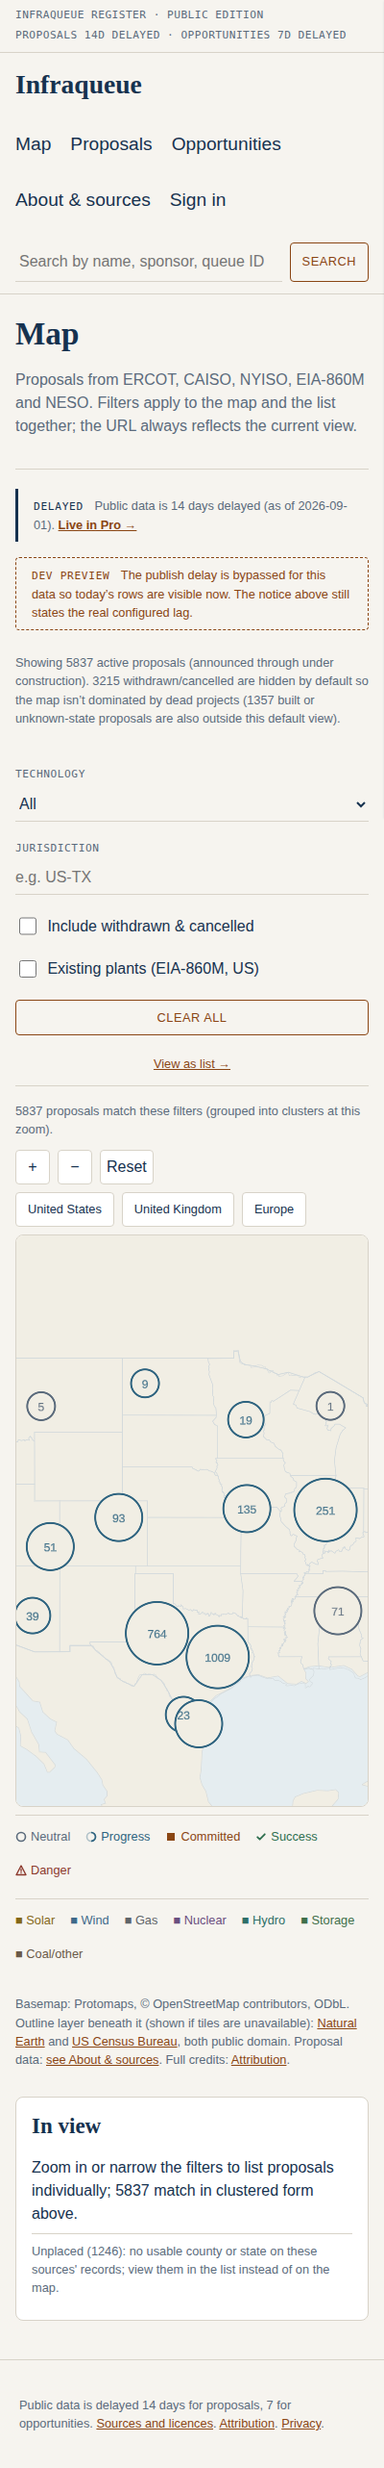
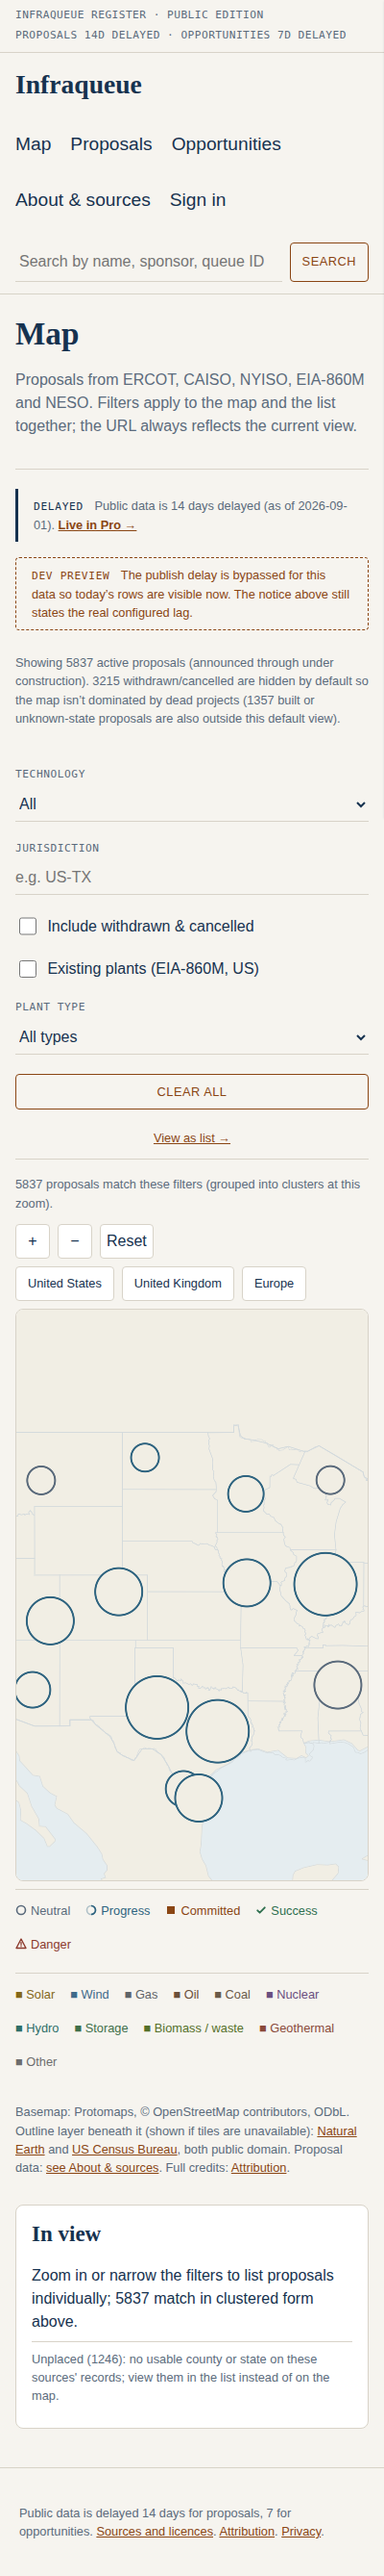
Web: plant type filter, eleven-family palette, plant labels from zoom 9
The first plant palette mapped only bare class names, so every gas_*
plant and all biomass, waste, oil and geothermal plants drew in the
"Coal/other" colour. Families now cover the API vocabulary exactly
(guarded by a test), biomass/waste has its own colour, a Plant type
select filters the layer independently of the proposals technology
filter, and a three-letter family code labels each square from zoom 9.
Measured live: the biomass filter returns 582 plants.

Claude-Session: https://claude.ai/code/session_01PPjuiE4bWTjrWutamTwtXn

diff --git a/web/static/js/map.js b/web/static/js/map.js
@@ -24,16 +24,45 @@
   // mapped down to the seven token families the legend and marker fill use. Anything not listed
   // here falls back to "coal" (labelled "Coal/other" in the legend) rather than inventing an
   // eighth colour for every raw EIA fuel code.
-  var PLANT_TECH_FAMILY = {
-    solar: "solar", wind: "wind", gas: "gas", natural_gas: "gas",
-    nuclear: "nuclear", hydro: "hydro", hydroelectric: "hydro",
-    storage: "storage", battery: "storage", batteries: "storage",
-    coal: "coal", other: "coal"
+  // Plant technology families. The API classifies plants with pipeline.normalize.classify_tech's
+  // finer vocabulary (gas_cc, gas_ct, wind_offshore, pumped_storage, waste ...); the map draws
+  // eleven families so the legend stays readable and every class lands in a named colour rather
+  // than a catch-all (owner, 2026-09-15: biomass/waste must be toggleable and labelled).
+  var PLANT_FAMILY_ORDER = [
+    "solar", "wind", "gas", "oil", "coal", "nuclear", "hydro", "storage", "biomass", "geothermal", "other"
+  ];
+  // family -> classify_tech classes (services/api/context_routes.py TECHNOLOGY_VOCAB); the plant
+  // type filter sends these classes, so an unknown one would be a 400 from the API -- guarded by
+  // web/test_map_layers.py::test_plant_family_classes_are_all_in_the_api_vocabulary.
+  var PLANT_FAMILY_CLASSES = {
+    solar: ["solar", "solar_storage", "solar_thermal"],
+    wind: ["wind", "wind_offshore", "wind_storage"],
+    gas: ["gas_cc", "gas_ct", "gas_steam", "gas_ice", "gas_other", "fuel_cell", "hydrogen"],
+    oil: ["oil"],
+    coal: ["coal"],
+    nuclear: ["nuclear"],
+    hydro: ["hydro"],
+    storage: ["storage", "pumped_storage"],
+    biomass: ["biomass", "waste"],
+    geothermal: ["geothermal"],
+    other: ["other", "unknown", "load", "transmission"]
   };
-  var PLANT_TECH_TOKEN = {
-    solar: "--plant-solar", wind: "--plant-wind", gas: "--plant-gas",
-    nuclear: "--plant-nuclear", hydro: "--plant-hydro", storage: "--plant-storage",
-    coal: "--plant-coal"
+  var PLANT_TECH_FAMILY = {};
+  PLANT_FAMILY_ORDER.forEach(function (family) {
+    PLANT_FAMILY_CLASSES[family].forEach(function (cls) { PLANT_TECH_FAMILY[cls] = family; });
+  });
+  // Legacy/loose spellings some proposal rows carry; harmless for plants.
+  PLANT_TECH_FAMILY.gas = "gas"; PLANT_TECH_FAMILY.natural_gas = "gas";
+  PLANT_TECH_FAMILY.hydroelectric = "hydro"; PLANT_TECH_FAMILY.battery = "storage"; PLANT_TECH_FAMILY.batteries = "storage";
+  var PLANT_TECH_TOKEN = {};
+  PLANT_FAMILY_ORDER.forEach(function (family) { PLANT_TECH_TOKEN[family] = "--plant-" + family; });
+  var PLANT_FAMILY_LABEL = {
+    solar: "SOL", wind: "WND", gas: "GAS", oil: "OIL", coal: "COL", nuclear: "NUC",
+    hydro: "HYD", storage: "BES", biomass: "BIO", geothermal: "GEO", other: "OTH"
+  };
+  var PLANT_FAMILY_NAME = {
+    solar: "Solar", wind: "Wind", gas: "Gas", oil: "Oil", coal: "Coal", nuclear: "Nuclear",
+    hydro: "Hydro", storage: "Storage", biomass: "Biomass / waste", geothermal: "Geothermal", other: "Other"
   };
   var IN_VIEW_LIMIT = 500;
   var WORLD_BBOX = [-179, -85, 179, 85];
@@ -67,8 +96,8 @@
   function familyOf(state) { return LIFECYCLE_FAMILY[state] || "neutral"; }
 
   function plantFamilyOf(tech) {
-    if (!tech) return "coal";
-    return PLANT_TECH_FAMILY[String(tech).toLowerCase()] || "coal";
+    if (!tech) return "other";
+    return PLANT_TECH_FAMILY[String(tech).toLowerCase()] || "other";
   }
 
   function techLabel(tech) {
@@ -118,7 +147,8 @@
       jurisdiction: params.get("jurisdiction") || "",
       include_withdrawn: params.get("include_withdrawn") === "1",
       layers: layersParam ? layersParam.split(",").filter(Boolean) : [],
-      region: params.get("region") || ""
+      region: params.get("region") || "",
+      plant_technology: PLANT_FAMILY_CLASSES[params.get("plant_technology") || ""] ? params.get("plant_technology") : ""
     };
   }
 
@@ -129,6 +159,7 @@
     if (filters.include_withdrawn) params.set("include_withdrawn", "1");
     if (filters.layers && filters.layers.length) params.set("layers", filters.layers.join(","));
     if (filters.region) params.set("region", filters.region);
+    if (filters.plant_technology) params.set("plant_technology", filters.plant_technology);
     var qs = params.toString();
     var url = window.location.pathname + (qs ? "?" + qs : "");
     window.history.replaceState(null, "", url);
@@ -160,7 +191,11 @@
     var params = new URLSearchParams();
     params.set("bbox", bbox.join(","));
     params.set("zoom", String(zoom));
-    if (filters.technology) params.set("technology", filters.technology);
+    // The plant-type filter is its own control (`plant_technology`, a family), sent to the API as
+    // that family's classify_tech classes; the proposals technology filter does not apply here.
+    if (filters.plant_technology && PLANT_FAMILY_CLASSES[filters.plant_technology]) {
+      params.set("technology", PLANT_FAMILY_CLASSES[filters.plant_technology].join(","));
+    }
     return "/api/context/plants/geo?" + params.toString();
   }
 
@@ -182,6 +217,10 @@
   document.getElementById("mf-include-withdrawn").checked = filters.include_withdrawn;
   var plantsToggle = document.getElementById("mf-layer-plants");
   plantsToggle.checked = filters.layers.indexOf("plants") !== -1;
+  var plantTypeSelect = document.getElementById("mf-plant-technology");
+  var plantTypeField = document.getElementById("mf-plant-technology-field");
+  plantTypeSelect.value = filters.plant_technology;
+  plantTypeField.hidden = !plantsToggle.checked;
   writeFilters(filters);
 
   var colors = familyColors();
@@ -312,6 +351,7 @@
             f.properties.plant_family = plantFamilyOf(f.properties.dominant_technology);
           } else {
             f.properties.plant_family = plantFamilyOf(f.properties.technology);
+            f.properties.plant_label = PLANT_FAMILY_LABEL[f.properties.plant_family];
           }
         });
         latestPlantsTotal = (fc.totals || {}).records || 0;
@@ -473,12 +513,9 @@
     map.addImage("plant-square", buildSquareIcon(8), { sdf: true });
     map.addSource("plants", { type: "geojson", data: { type: "FeatureCollection", features: [] } });
 
-    var plantColorExpr = [
-      "match", ["get", "plant_family"],
-      "solar", plantColors.solar, "wind", plantColors.wind, "gas", plantColors.gas,
-      "nuclear", plantColors.nuclear, "hydro", plantColors.hydro, "storage", plantColors.storage,
-      "coal", plantColors.coal, plantColors.coal
-    ];
+    var plantColorExpr = ["match", ["get", "plant_family"]];
+    PLANT_FAMILY_ORDER.forEach(function (family) { plantColorExpr.push(family, plantColors[family]); });
+    plantColorExpr.push(plantColors.other);
 
     // Beneath the proposals layers (`addLayer(..., "clusters")`, task item 2): inserted right
     // above the basemap and below every proposals layer added further down.
@@ -512,13 +549,25 @@
       paint: { "icon-color": plantColorExpr, "icon-opacity": 0.6 }
     }, "clusters");
 
+    // Labels appear once the squares are far enough apart to read (zoom 9+): the family code
+    // beneath the square, same three-letter convention as the proposal markers' tech codes.
+    map.addLayer({
+      id: "plant-labels", type: "symbol", source: "plants", minzoom: 9,
+      filter: ["==", ["get", "feature_kind"], "plant"],
+      layout: {
+        "text-field": ["get", "plant_label"], "text-size": 8, "text-font": ["Noto Sans Medium"],
+        "text-anchor": "top", "text-offset": [0, 0.6], "text-allow-overlap": false
+      },
+      paint: { "text-color": plantColorExpr, "text-opacity": 0.85 }
+    }, "clusters");
+
     map.on("click", "plant-points", function (e) { openPlantDrawer(e.features[0].properties); });
     map.on("mouseenter", "plant-points", function () { map.getCanvas().style.cursor = "pointer"; });
     map.on("mouseleave", "plant-points", function () { map.getCanvas().style.cursor = ""; });
   }
 
   function setPlantsLayerVisible(on) {
-    ["plant-clusters", "plant-cluster-count", "plant-points"].forEach(function (id) {
+    ["plant-clusters", "plant-cluster-count", "plant-points", "plant-labels"].forEach(function (id) {
       if (map.getLayer(id)) map.setLayoutProperty(id, "visibility", on ? "visible" : "none");
     });
     plantsLegend.hidden = !on;
@@ -616,17 +665,20 @@
       jurisdiction: document.getElementById("mf-jurisdiction").value,
       include_withdrawn: document.getElementById("mf-include-withdrawn").checked,
       layers: filters.layers,
-      region: filters.region
+      region: filters.region,
+      plant_technology: plantTypeSelect.value
     };
     writeFilters(filters);
     refetch();
   }
+  plantTypeSelect.addEventListener("change", applyFilters);
   document.getElementById("mf-technology").addEventListener("change", applyFilters);
   document.getElementById("mf-jurisdiction").addEventListener("change", applyFilters);
   document.getElementById("mf-include-withdrawn").addEventListener("change", applyFilters);
   plantsToggle.addEventListener("change", function () {
     var on = plantsToggle.checked;
     filters.layers = on ? ["plants"] : [];
+    plantTypeField.hidden = !on;
     writeFilters(filters);
     setPlantsLayerVisible(on);
     sendUiEvent("map.layer_toggled", { layer: "plants", on: on });
@@ -637,6 +689,7 @@
     document.getElementById("mf-technology").value = "";
     document.getElementById("mf-jurisdiction").value = "";
     document.getElementById("mf-include-withdrawn").checked = false;
+    plantTypeSelect.value = "";
     applyFilters();
   });
 
@@ -711,7 +764,7 @@
       var source = propObj(p.source);
       body.innerHTML =
         "<h2>" + p.name + "</h2>" +
-        "<p class=\"reuse-badge\">Existing plant &middot; context layer</p>" +
+        "<p class=\"reuse-badge\">Existing plant &middot; " + (PLANT_FAMILY_NAME[plantFamilyOf(p.technology)] || "Other") + "</p>" +
         "<dl class=\"drawer-fields\">" +
         "<div class=\"drawer-fields__row\"><dt>Operator</dt><dd>" + (p.operator_name || "—") + "</dd></div>" +
         (techRows || "<div class=\"drawer-fields__row\"><dt>Technology</dt><dd>" + (p.technology || "—") + "</dd></div>") +

diff --git a/web/templates/home_map.html b/web/templates/home_map.html
@@ -36,6 +36,23 @@
       Existing plants (EIA-860M, US)
     </label>
   </div>
+  <div class="filter-field" id="mf-plant-technology-field" hidden>
+    <label for="mf-plant-technology">Plant type</label>
+    <select id="mf-plant-technology" name="plant_technology">
+      <option value="">All types</option>
+      <option value="solar">Solar</option>
+      <option value="wind">Wind</option>
+      <option value="gas">Gas</option>
+      <option value="oil">Oil</option>
+      <option value="coal">Coal</option>
+      <option value="nuclear">Nuclear</option>
+      <option value="hydro">Hydro</option>
+      <option value="storage">Storage</option>
+      <option value="biomass">Biomass / waste</option>
+      <option value="geothermal">Geothermal</option>
+      <option value="other">Other</option>
+    </select>
+  </div>
   <button class="filter-bar__submit" type="button" id="mf-clear">Clear all</button>
   <a class="filter-bar__clear" href="/proposals" id="mf-view-list">View as list &rarr;</a>
 </form>
@@ -68,10 +85,14 @@
       <span class="legend__item" style="color:var(--plant-solar)">&#9632; Solar</span>
       <span class="legend__item" style="color:var(--plant-wind)">&#9632; Wind</span>
       <span class="legend__item" style="color:var(--plant-gas)">&#9632; Gas</span>
+      <span class="legend__item" style="color:var(--plant-oil)">&#9632; Oil</span>
+      <span class="legend__item" style="color:var(--plant-coal)">&#9632; Coal</span>
       <span class="legend__item" style="color:var(--plant-nuclear)">&#9632; Nuclear</span>
       <span class="legend__item" style="color:var(--plant-hydro)">&#9632; Hydro</span>
       <span class="legend__item" style="color:var(--plant-storage)">&#9632; Storage</span>
-      <span class="legend__item" style="color:var(--plant-coal)">&#9632; Coal/other</span>
+      <span class="legend__item" style="color:var(--plant-biomass)">&#9632; Biomass / waste</span>
+      <span class="legend__item" style="color:var(--plant-geothermal)">&#9632; Geothermal</span>
+      <span class="legend__item" style="color:var(--plant-other)">&#9632; Other</span>
     </div>
     <p class="map-attribution">{{ basemap_attribution }} Outline layer beneath it (shown if tiles are unavailable): <a href="https://www.naturalearthdata.com/about/terms-of-use/" rel="noopener">Natural Earth</a> and <a href="https://www.census.gov/programs-surveys/geography.html" rel="noopener">US Census Bureau</a>, both public domain. Proposal data: <a href="/about#sources">see About &amp; sources</a>. Full credits: <a href="/attribution">Attribution</a>.</p>
   </div>

diff --git a/web/static/css/styles.css b/web/static/css/styles.css
@@ -61,6 +61,12 @@
   --plant-hydro: #2f6f68;
   --plant-storage: #3f6f4a;
   --plant-coal: #6a5a48;
+  /* Added 2026-09-15 with the plant-type filter (owner: biomass/waste must be distinct). Same
+     method: oil 6.81:1, biomass 5.11:1, geothermal 6.12:1, other 4.71:1 against --color-paper. */
+  --plant-oil: #6b4f3a;
+  --plant-biomass: #55702a;
+  --plant-geothermal: #8a4a3a;
+  --plant-other: #6d6d6d;
 
   /* 1.3 typography */
   --font-display: "Newsreader", Georgia, "Times New Roman", serif;
@@ -133,6 +139,10 @@
     --plant-hydro: #7cb8b0;
     --plant-storage: #86b98f;
     --plant-coal: #ac9c88;
+    --plant-oil: #c9a98a;
+    --plant-biomass: #a9c77a;
+    --plant-geothermal: #d29a86;
+    --plant-other: #b5b5b5;
   }
 }
 :root[data-theme="dark"] {
@@ -165,6 +175,10 @@
   --plant-hydro: #7cb8b0;
   --plant-storage: #86b98f;
   --plant-coal: #ac9c88;
+  --plant-oil: #c9a98a;
+  --plant-biomass: #a9c77a;
+  --plant-geothermal: #d29a86;
+  --plant-other: #b5b5b5;
 }
 
 /* ---------- 2. Reset ---------- */

diff --git a/web/test_map_layers.py b/web/test_map_layers.py
@@ -377,3 +377,35 @@ def test_footer_links_to_attribution(web_client: TestClient) -> None:
     resp = web_client.get("/about")
     assert resp.status_code == 200
     assert 'href="/attribution"' in resp.text
+
+
+# ============================================================ plant type filter (2026-09-15)
+def test_plant_family_classes_are_all_in_the_api_vocabulary() -> None:
+    """`map.js` sends a family's classify_tech classes as the plants `technology` filter; a class
+    the API does not know is a 400, so every class named in the script must be in the vocabulary
+    and every vocabulary class must land in some family (nothing silently falls to a catch-all)."""
+    import json
+    import re
+    from pathlib import Path
+
+    from services.api.context_routes import TECHNOLOGY_VOCAB
+
+    source = (Path(__file__).parent / "static" / "js" / "map.js").read_text()
+    block = re.search(r"var PLANT_FAMILY_CLASSES = \{(.*?)\n  \};", source, re.S)
+    assert block is not None
+    classes: set[str] = set()
+    for family, arr in re.findall(r"(\w+): (\[[^\]]*\])", block.group(1)):
+        values = json.loads(arr)
+        assert values, family
+        classes.update(values)
+    assert classes <= set(TECHNOLOGY_VOCAB), classes - set(TECHNOLOGY_VOCAB)
+    assert set(TECHNOLOGY_VOCAB) <= classes, set(TECHNOLOGY_VOCAB) - classes
+
+
+def test_home_map_has_plant_type_filter_and_eleven_family_legend(web_client: TestClient) -> None:
+    resp = web_client.get("/?layers=plants")
+    assert resp.status_code == 200
+    assert 'id="mf-plant-technology"' in resp.text
+    assert '<option value="biomass">Biomass / waste</option>' in resp.text
+    for token in ("--plant-oil", "--plant-biomass", "--plant-geothermal", "--plant-other"):
+        assert token in resp.text, token

diff --git a/web/test_e2e.py b/web/test_e2e.py
@@ -499,8 +499,10 @@ def test_pmtiles_basemap_renders_real_labels_end_to_end(pmtiles_proof_server: ob
             assert page.get_attribute("#map", "data-tile-mode") == "pmtiles"
             page.wait_for_selector("#map canvas", timeout=10000)
             page.wait_for_function("() => window.__map && window.__map.isStyleLoaded()", timeout=15000)
-            # (a) MapLibre `load` fired
-            assert page.evaluate("() => window.__map.loaded()")
+            # (a) MapLibre `load` fired and the first render settled -- polled rather than read at
+            # one instant, since `loaded()` is false whenever any tile or glyph is still in flight
+            # (it flickered false under CPU load from a parallel data reload, 2026-09-15).
+            page.wait_for_function("() => window.__map.loaded()", timeout=30000)
 
             # Zoom to the extracted archive's own coverage (Austin, TX, up to zoom 10) -- the
             # world-view default the page loads at is below the archive's data.

diff --git a/docs/CHANGELOG.md b/docs/CHANGELOG.md
@@ -87,3 +87,4 @@
 - 2026-09-15 frontend-developer: map page basemap, existing-plants context layer, regional quick views, attribution page and measurement (docs/40 §2.7; docs/00-PLAN.md 2026-09-14/15 owner decisions). `web/app.py`: `MAP_TILE_URL`-keyed `_tile_mode`/`_basemap_attribution` (dev/raster/pmtiles, computed once server-side, reaches the page as `data-tile-url`/`data-tile-mode` on `#map`, never inline JS); `GET /api/context/plants/geo` and `POST /api/ui-events` same-origin proxies (forward only `bbox`/`zoom`/`technology` and `name`/`props` respectively, never cookies, ui-events always answers 202); `GET /attribution` (every source plus Basemap/Context-layers sections); regions computed server-side from `GET /v1/sources?publish_state=public` via new `web/regions.py` (`us`/`gb`/`eu`/`ca`/`au`, case-insensitive jurisdiction-prefix match). `web/static/js/map.js`: three-mode basemap construction (raster template swap, or `pmtiles.Protocol`/`@protomaps/basemaps` `layers()`/`namedFlavor("light")` with land/water/roads tinted to the paper-ground tokens), `map.basemap_failed` beaconed once on either CDN-script failure or a runtime tile/source error, always behind the pre-existing same-origin fallback outline layer; existing-plants layer (small SDF-square markers at 0.6 opacity, faint-ring clusters, inserted beneath every proposals layer, technology filter shared, plant drawer variant, second aria-live sentence); regional quick-view buttons (`fitBounds`, reduced-motion respected, `region=` in the URL); `navigator.sendBeacon`/`fetch(keepalive)` event emission for `map.layer_toggled`/`map.region_jumped`/`map.basemap_failed`; header "Sign in" link kept in sync with `?next=<path+query>` so `layers=` survives the login/register round trip. `web/auth.py::register_submit` posts `auth.registered {layers: "<comma-joined>"}` (a string, matching `services/api/ui_events.py`'s `_ALLOWED_PROPS` typing — not a list) after the redirect's cookies are set, swallowing any failure. `web/templates/home_map.html`, new `web/templates/attribution.html`, `web/templates/base.html` (footer "Attribution" link), `web/templates/legal/privacy.html` (one sentence: map interaction counts carry no cookie/IP/UA/referrer). `web/static/css/styles.css`: seven `--plant-*` technology tokens, light and dark, each recomputed and raised until ≥4.5:1 against `--bg` (D-20) since the legend renders them as text, not only as marker fills. `web/dev_up.py`: loads `data/normalized/context/us.eia.860m.plants.parquet` via `services.ingest.plants.load_plants_parquet` if present, one log line either way, never fails the rest of the load. New `web/test_map_layers.py` (proxy forwarding/cookie-stripping/defaults, ui-events 202-always, `/attribution`, region gating, tile-mode template wiring — against a hand-written fake `Transport`, since `GET /v1/context/plants/geo`/`POST /v1/ui-events` had not landed when this was started); extended `web/test_auth.py` (`auth.registered` against the real, now-landed `POST /v1/ui-events`, asserted via the `UiEvent` row) and `web/test_e2e.py` (whole suite now runs in pmtiles mode with both CDN scripts aborted, asserting the fallback renders and exactly one `map.basemap_failed` beacon, plus a plants-layer-toggle check). Measured (D-13): `map.js` 9.4 KB gzipped; the two pmtiles-only scripts add 14.6 KB gzipped when that mode is selected — but `maplibre-gl.js` 5.24.0 alone is already 276 KB gzipped, over the 250 KB budget by itself in every mode including the pre-existing dev one; flagged as pre-existing and outside this task's read-list (a version pin, not this task's files), not fixed unilaterally. Not done: basemap glyph/sprite wiring for pmtiles-mode text labels (flagged in `web/README.md` as a follow-up — no glyph host was named in the contract and the choice is better made against real PMTiles data). `.venv/bin/ruff check web`/`ruff format --check web`/`mypy web` clean; `pytest web --ignore=web/test_e2e.py` 136 passed; `pytest web/test_e2e.py` 1 passed. Details in `web/README.md` "Map basemap", "Existing-plants context layer", "Regional quick views", "Attribution page", "Measurement", "Dev loop: existing plants".
 - 2026-09-15 coordinator: context-layer wave verified and committed lane by lane (plants loader, API + index cache, web, basemap infra, legal register), admin Engagement page mounted, EIA source display name no longer says Planned sheet (entry feeds both sheets), decision row in docs/00-PLAN.md with the measured numbers.
 - 2026-09-15 coordinator: pipelines added to the plan — existing (EIA Energy Atlas, registered as us.eia.atlas.gas_pipelines, second context layer gated on the plants measurement) and proposed (FERC pending pipelines and DOE LNG connectors in the supply backlog).
+- 2026-09-15 coordinator: plant palette widened to eleven families (biomass/waste, oil, geothermal, other get their own tokens), a Plant type filter (`plant_technology`) decoupled from the proposals technology filter, three-letter plant labels from zoom 9; real-archive e2e polls for map load.

diff --git a/web/README.md b/web/README.md
@@ -762,3 +762,17 @@ this was built (a parallel-built lane, `python -m services.ingest.plants`), so
 `_load_plants_context_layer()` treats both as optional: a missing file is skipped silently, and an
 `ImportError` on the module is caught the same way — either branch prints exactly one log line, and
 neither ever fails the rest of `dev_up`.
+
+### Plant type filter and labels (2026-09-15)
+
+The API classifies plants with `pipeline.normalize.classify_tech`'s full vocabulary (`gas_cc`, `gas_ct`,
+`wind_offshore`, `pumped_storage`, `waste`, ...). `map.js` groups those into eleven families
+(`PLANT_FAMILY_CLASSES`) so the legend stays readable and nothing falls into a catch-all colour: the first
+palette had seven families and mapped only the bare class names, so every `gas_*` plant, plus biomass,
+waste, oil and geothermal, drew in the "Coal/other" colour. A "Plant type" select (`plant_technology=` in
+the URL, shown only while the layer is on) sends the family's classes as the plants `technology` filter;
+the proposals technology filter no longer applies to plants. `web/test_map_layers.py` asserts the family
+map covers the API vocabulary exactly, both ways. From zoom 9 a three-letter family code is drawn under
+each square (`plant-labels`), the same convention as the proposal markers; below that zoom the colour and
+the drawer carry the type. Measured live (2026-09-15, 14,659 plants): `plant_technology=biomass` returns
+582 plants (527 biomass, 55 waste).
